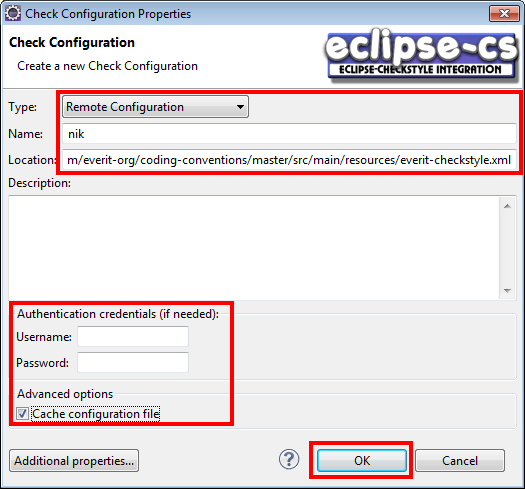
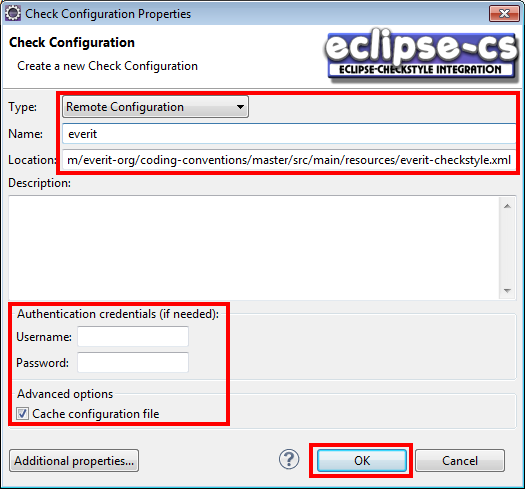
Added fixes and content according to the comments by Balázs.

diff --git a/ide/ide.html b/ide/ide.html
@@ -132,11 +132,11 @@
 	</p>
 
 	<p>The above version of Eclipse should already contain the Git and
-		the M2E plugins, which are necessary to continue this tutorial.</p>
+		the M2E Eclipse plugins, which are necessary to continue this tutorial.</p>
 
 	<h3><a name="Customize the Java editor">Customize the Java editor</a></h3>
-	<p>Based on the practice of the past years, it is best to set up
-		the Java editor in the following manner:</p>
+	<p>To set up the following preferences is strongly recommended, but it is not required only if one wishes to 
+		contribute to the codes written by Everit.</p>
 	<ol>
 		<li><p>Click the Window/Preferences menu item in the Eclipse menu bar.</p></li>
 		<li><p>Type "Text Editors" in the "type filter text" field and click "Text Editors".</p></li>
@@ -148,6 +148,8 @@
 
 
 	<h3><a name="Configuring Java formatter">Configuring Java formatter</a></h3>
+	<p>To set up the following preferences is strongly recommended, but it is not required only if one wishes to 
+		contribute to the codes written by Everit.</p>
 	<ol>
 		<li><p>Use "Save link as.." to download the following file containing the required formatter settings:</p>
 		<a href="https://rawgithub.com/everit-org/coding-conventions/master/src/main/resources/everit-eclipseformatter.xml">
@@ -160,6 +162,8 @@
 	</ol>		
 
 	<h3><a name="Configuring 'Clean up and Save Actions'">Configuring "Clean up and Save Actions"</a></h3>
+	<p>To set up the following preferences is strongly recommended, but it is not required only if one wishes to 
+		contribute to the codes written by Everit.</p>	
 	<ol>
 		<li><p>Use "Save link as.." to download the following file containing the required clean up and save 
 				actions settings:</p>
@@ -174,6 +178,8 @@
 	</ol>	 
 
 	<h3><a name="Configuring the XML/HTML formatter">Configuring the XML/HTML formatter</a></h3>
+	<p>To set up the following preferences is strongly recommended, but it is not required only if one wishes to 
+		contribute to the codes written by Everit.</p>	
 	<ol>
 		<li><p>Click the Window/Preferences menu item in the Eclipse menu bar.</p></li>
 		<li><p>Type "XML Editor" in the "type filter text" field and click "Editor".</p></li>
@@ -183,6 +189,8 @@
 	</ol>
 
 	<h3><a name="Setting up Checkstyle">Setting up Checkstyle</a></h3>
+	<p>To set up the following preferences is strongly recommended, but it is not required only if one wishes to 
+		contribute to the codes written by Everit.</p>	
 	<ol>
 		<li><p>Click the Help/Eclipse Marketplace... menu item in the Eclipse menu bar and select the "Search" menu.</p></li>
 		<li><p>Type "Checkstyle" in the "Find:" field and click "Install" as shown below.</p>
@@ -195,7 +203,7 @@
 				in the following manner:</p>
 				<ul>
 						<li>Type: Remote Configuration</li>
-						<li>Name: nik</li>
+						<li>Name: everit</li>
 						<li>Location:
 						 <a href=
 						 "https://rawgithub.com/everit-org/coding-conventions/master/src/main/resources/everit-checkstyle.xml">
@@ -206,8 +214,8 @@
 						<li>Click "OK"</li>
 				</ul>
 				<img class="screenshot" src="check-configuration.png" /></li>
-		<li><p>Click the "Set as Default" button after selecting "nik" in the "Global Check Configurations" list 
-						and click OK. </p><img class="screenshot" src="set-nik-as-default-checkstyle.png" /></li>
+		<li><p>Click the "Set as Default" button after selecting "everit" in the "Global Check Configurations" list 
+						and click OK. </p><img class="screenshot" src="set-everit-as-default-checkstyle.png" /></li>
 		<li><p>Right click on a project and select "Checkstyle/Activate Checkstyle" in the drop down menu to activate
 				Checkstyle on a project.</p></li>
 	</ol>	
